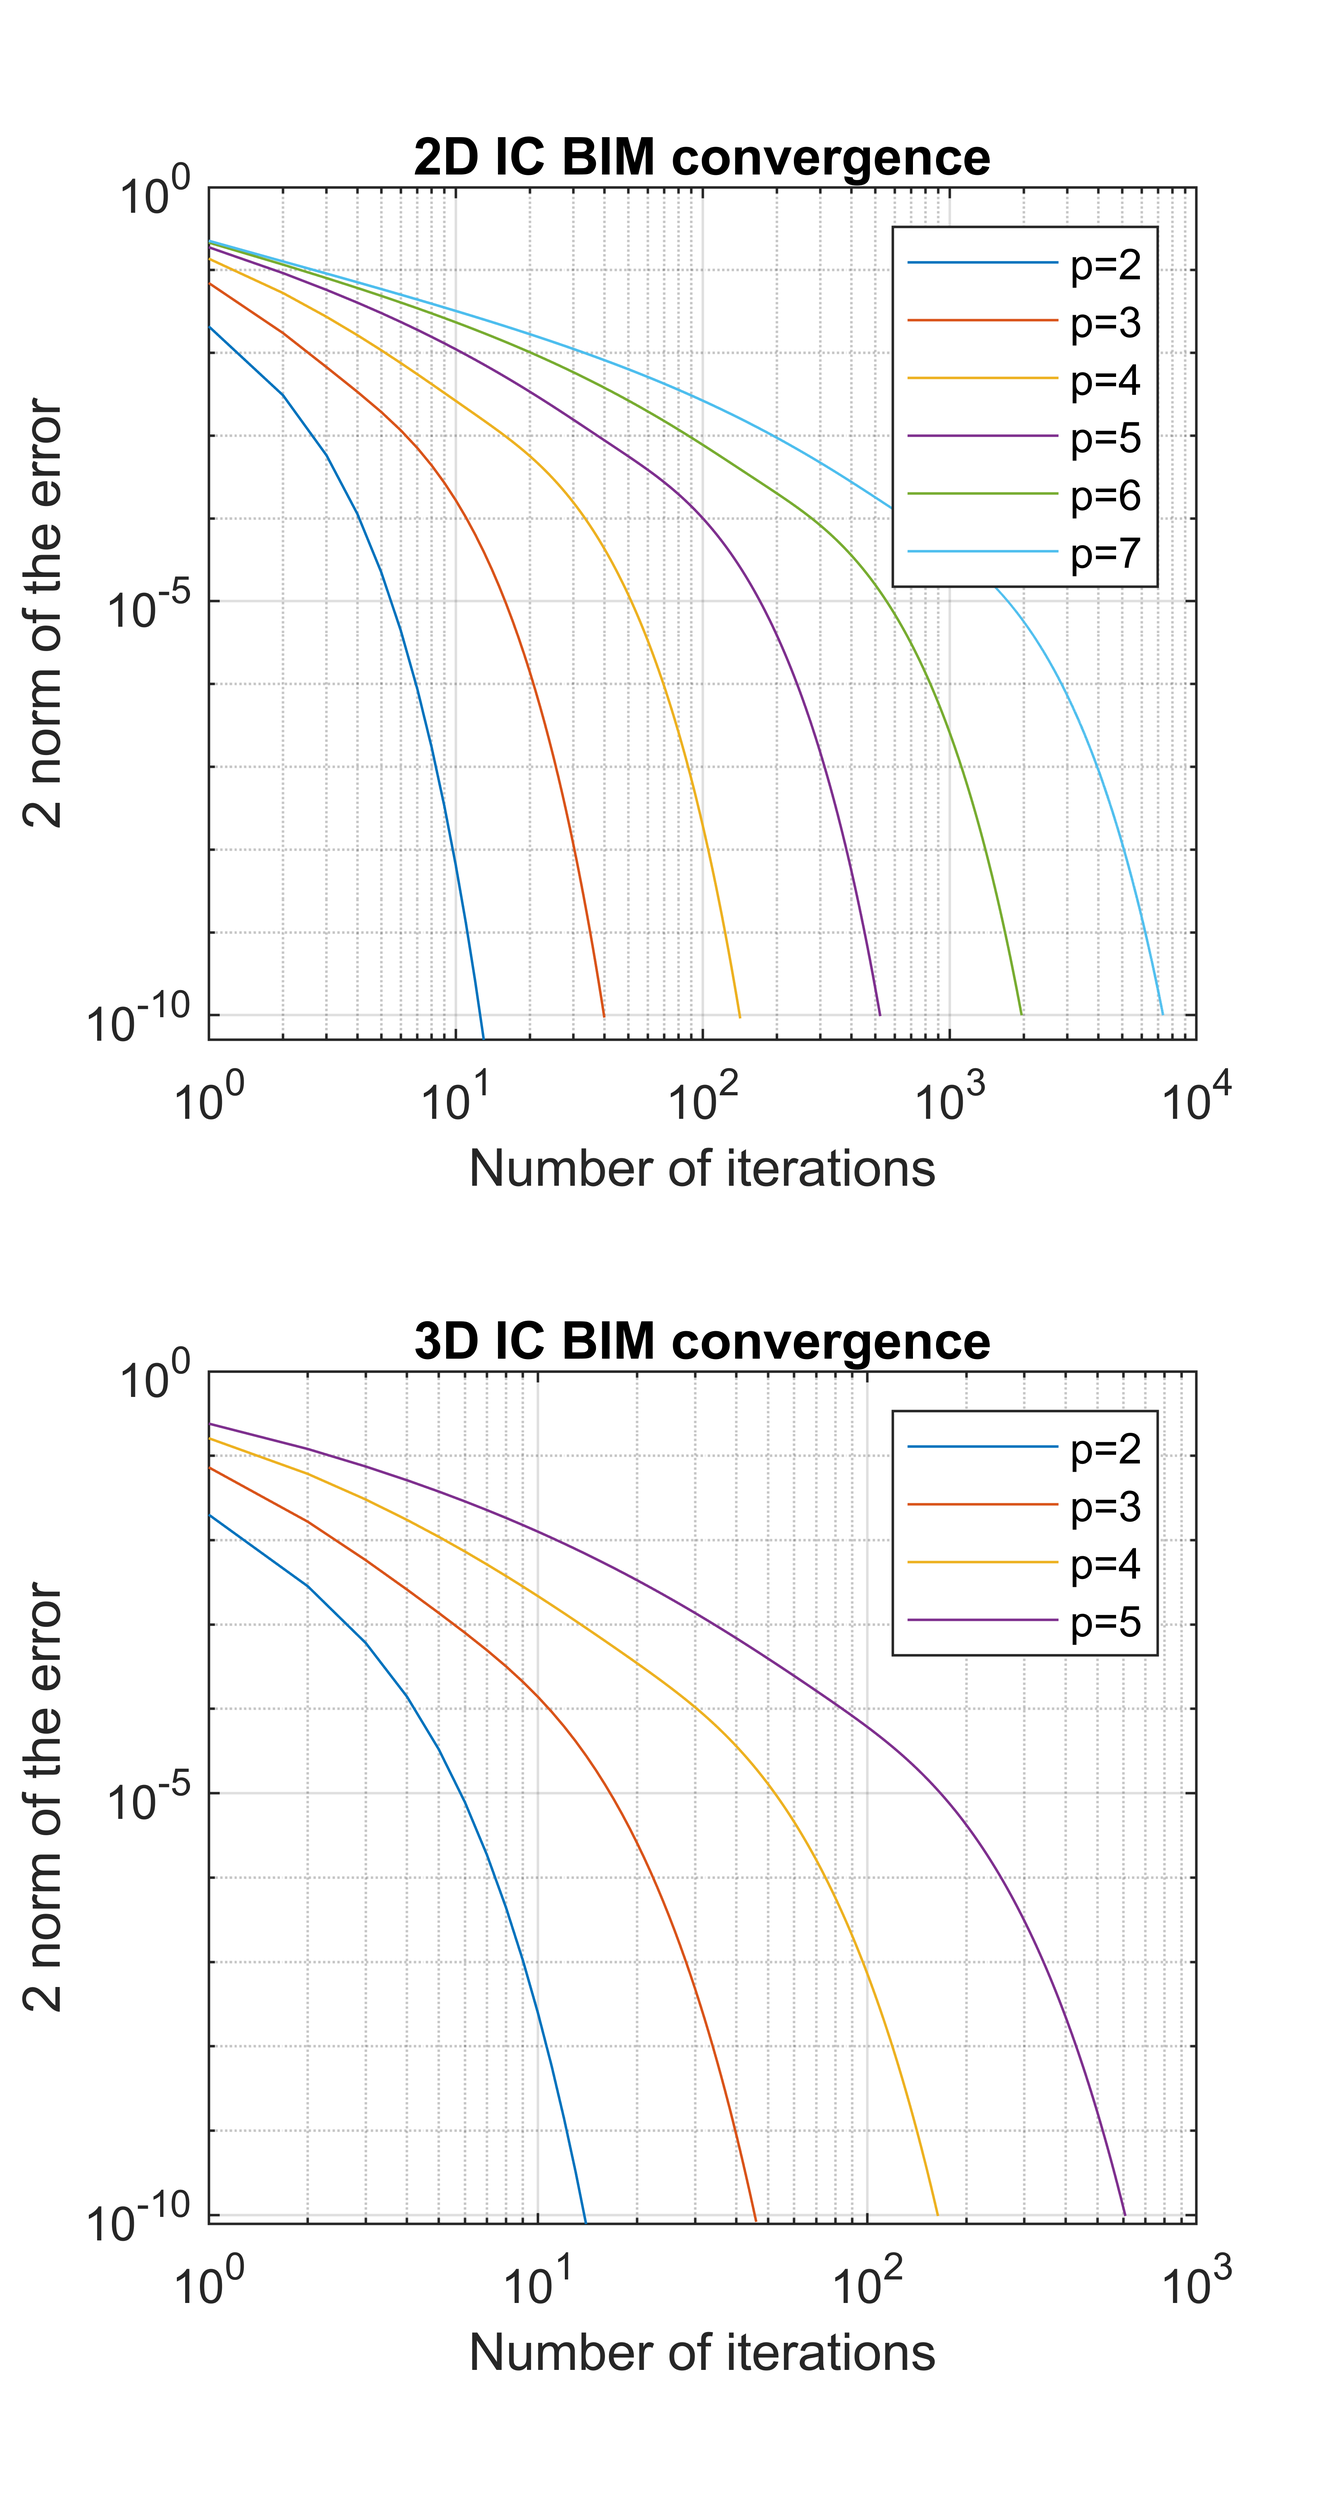
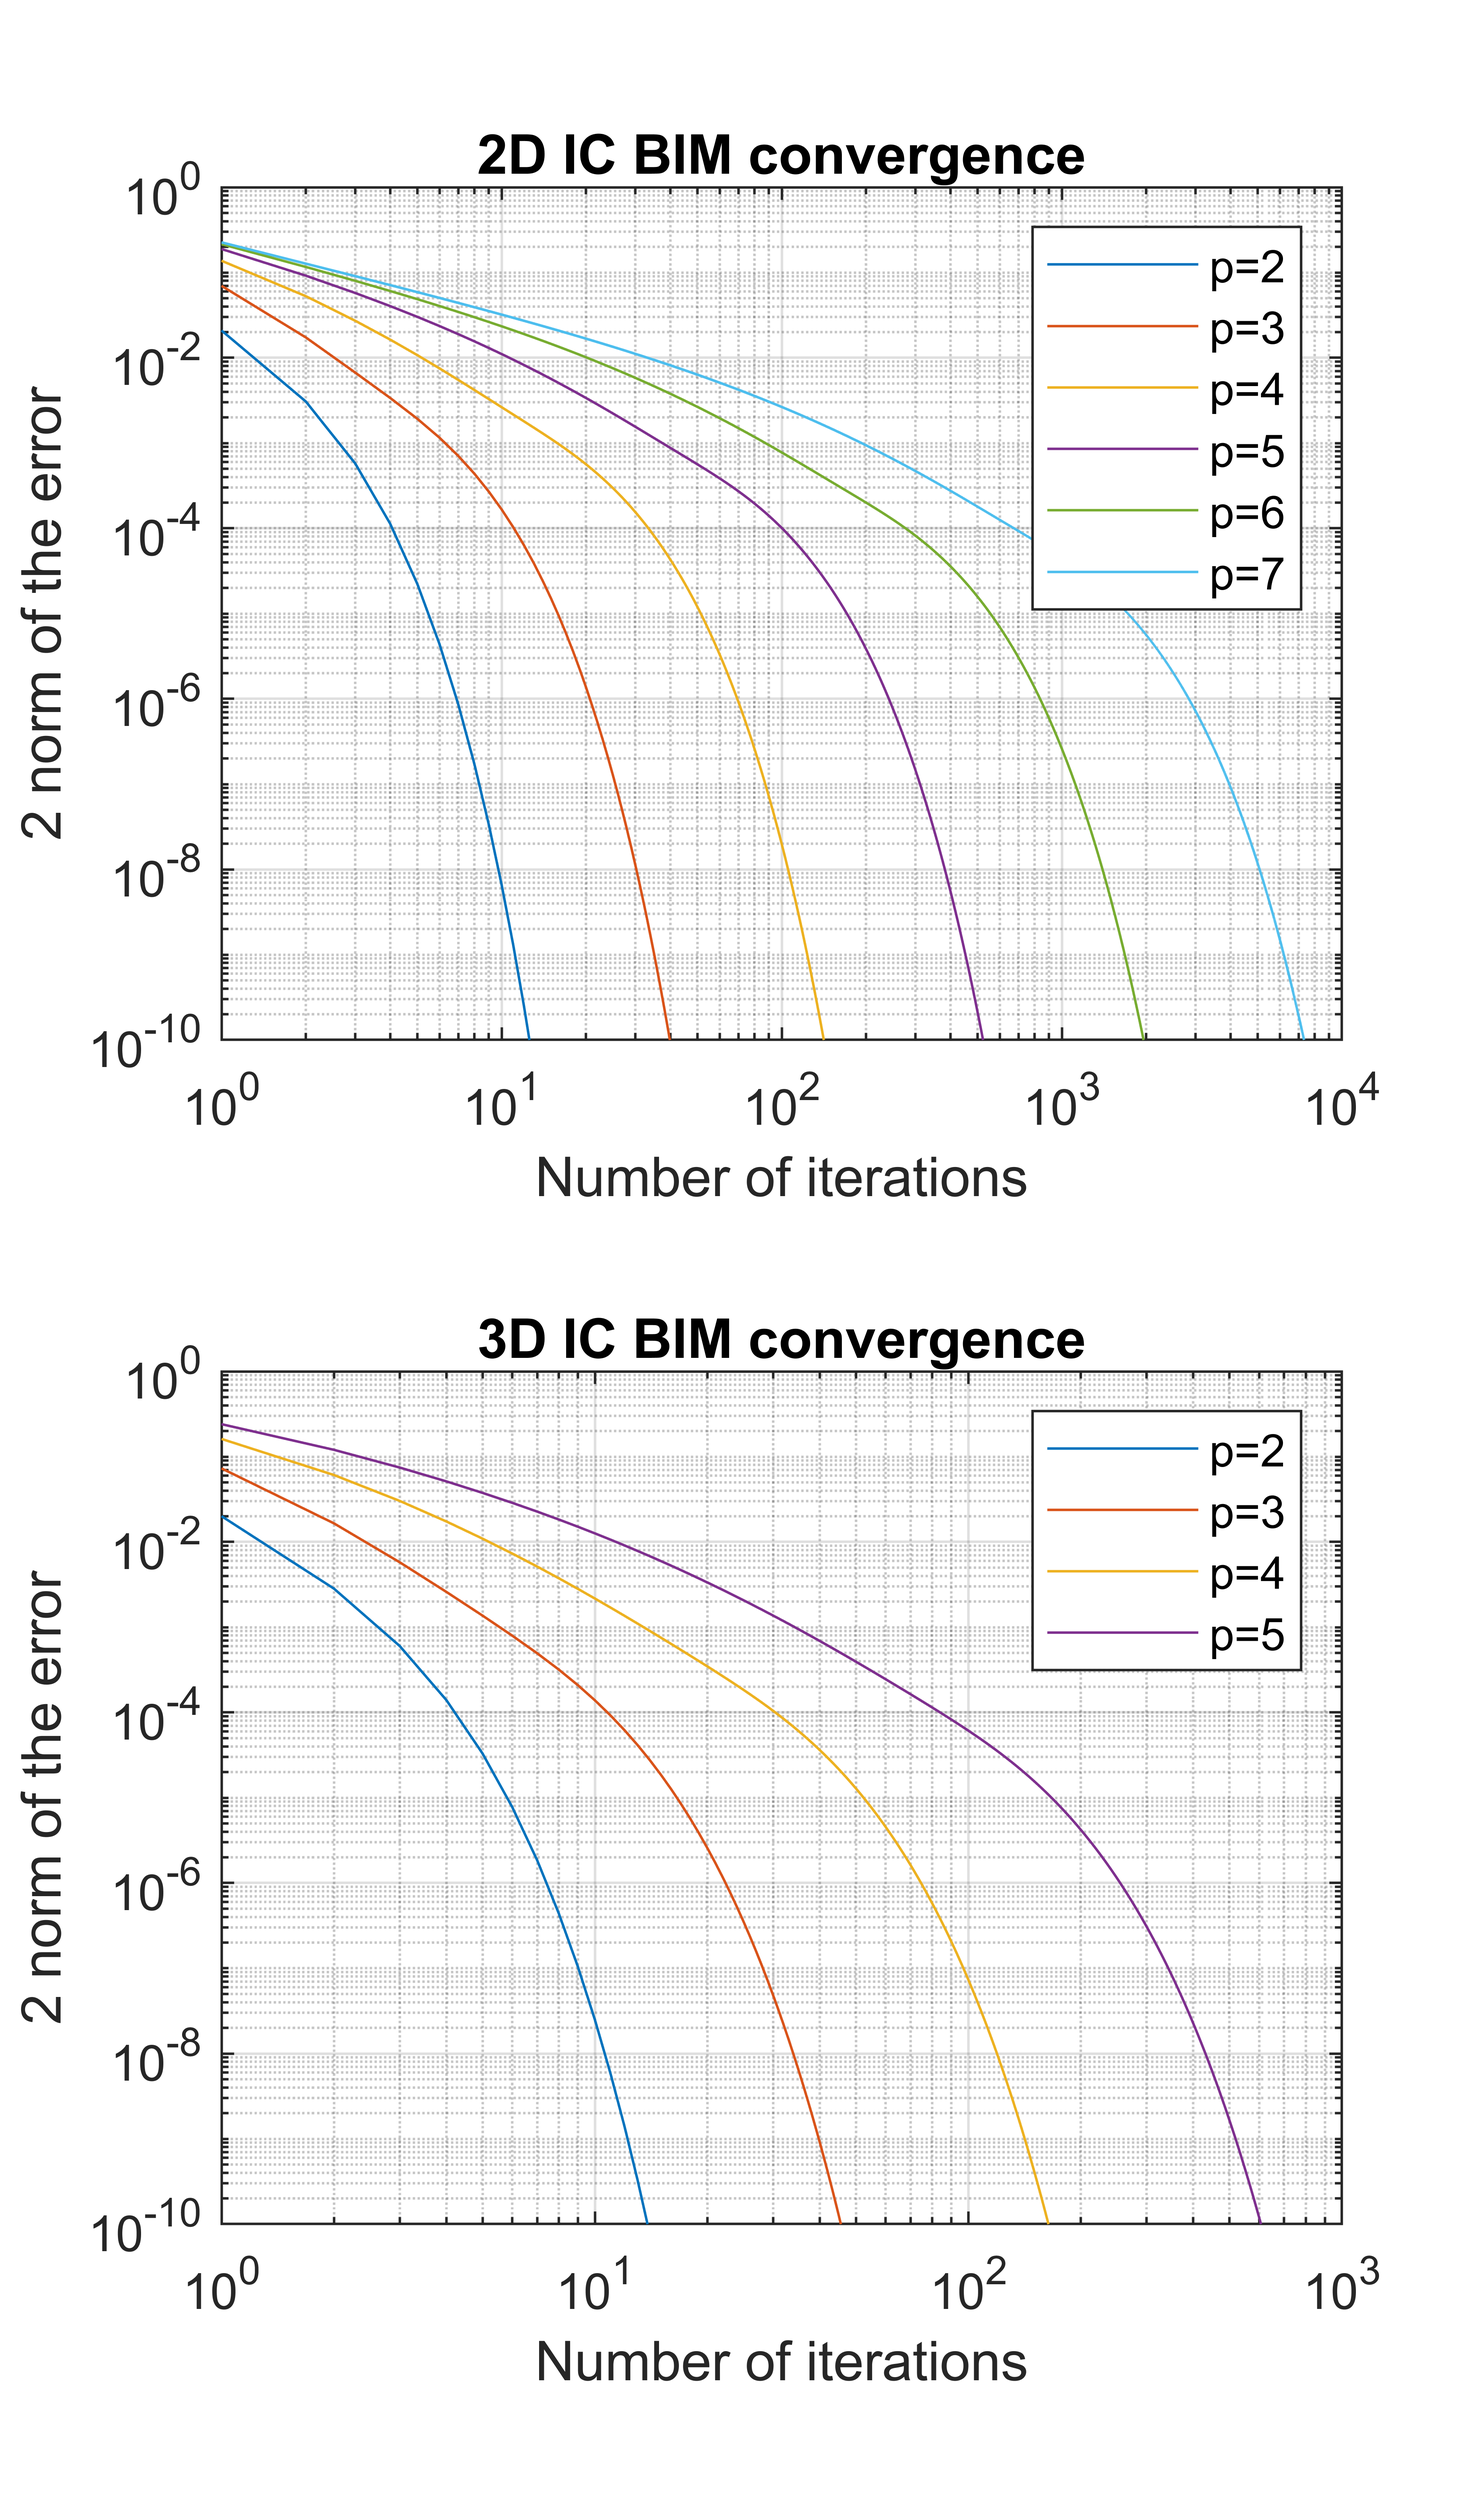
kevin Plotting Adventure

diff --git a/Main.m b/Main.m
@@ -224,6 +224,7 @@ if plot_figure
     figure(4)
     subplot(2,1,1)
     loglog(ICBIM_conv_2D');
+    ylim([1e-10 1])
     title("2D IC BIM convergence")
     grid on
     xlabel("Number of iterations");
@@ -231,6 +232,7 @@ if plot_figure
     legend(compose('p=%u',D2pList))
     subplot(2,1,2)
     loglog(ICBIM_conv_3D');
+    ylim([1e-10 1])
     title("3D IC BIM convergence")
     grid on
     xlabel("Number of iterations");
@@ -241,6 +243,7 @@ if plot_figure
     figure(5)
     subplot(2,1,1)
     loglog(ICCG_conv_2D');
+    ylim([1e-10 1])
     title("2D ICCG convergence")
     grid on
     xlabel("Number of iterations");
@@ -248,6 +251,7 @@ if plot_figure
     legend(compose('p=%u',D2pList))
     subplot(2,1,2)
     loglog(ICCG_conv_3D');
+    ylim([1e-10 1])
     title("3D ICCG convergence")
     grid on
     xlabel("Number of iterations");
@@ -279,6 +283,38 @@ if plot_figure
     ylabel("total time");
     legend("Direct","IC BIM","ICCG",'location','northwest')
     
+    
+    %% Last 5 iterations convergence ratio
+    figure(7)
+    % 2D
+    subplot(2,1,1)
+    for i = 1:numel(D2pList)
+        I2D = find(ICBIM_conv_2D(i,:) > 0);
+        Iend = I2D(end);
+        plot([-5 -4 -3 -2 -1 0],ICBIM_conv_2D(i,Iend-5:Iend)./(ICBIM_conv_2D(i,Iend-6:Iend-1)),"-o");
+        hold on
+    end
+    hold off
+    legend(num2str(D2pList'))
+    grid on
+    title("2D last 5 iterations ratio of convergence")
+    xlabel("iteration n from last iteration")
+    ylabel("ratio $\frac{||\mathbf{r}_n||_2}{||\mathbf{r}_{n-1}||_2}$",'interpreter','latex')
+    
+    % 3D
+    subplot(2,1,2)
+    for i = 1:numel(D3pList)
+        I3D = find(ICBIM_conv_3D(i,:) > 0);
+        Iend = I3D(end);
+        plot(ICBIM_conv_3D(i,Iend-5:Iend)./(ICBIM_conv_3D(i,Iend-6:Iend-1)),"-o");
+        hold on
+    end
+    hold off
+    legend(num2str(D3pList'))
+    grid on
+    title("3D last 5 iterations ratio of convergence")
+    xlabel("iteration n from last iteration")
+    ylabel("ratio $\frac{||\mathbf{r}_n||_2}{||\mathbf{r}_{n-1}||_2}$",'interpreter','latex')
     
     set(0,'DefaultFigureWindowStyle','normal')
 end

diff --git a/ParameterFile.m b/ParameterFile.m
@@ -1,18 +1,18 @@
-D2pList = 2:7;          % do not go above 7 for MATLAB implementation or 5 for user implementation
-D3pList = 2:5;          % do not go above 5 for MATLAB implementation or 3 for user implementation
+D2pList = 2:5;          % do not go above 7 for MATLAB implementation or 5 for user implementation
+D3pList = 2:3;          % do not go above 5 for MATLAB implementation or 3 for user implementation
 
 epsilon = 1e-10;        % convergence criteria IC BIM
 
-use_MATLAB  = true;     % when true use matlab own implementation for code speed up
+use_MATLAB  = false;     % when true use matlab own implementation for code speed up
 plot_figure = true;     % plot figures
 use_symrcm  = true;     % use matrix reordering
 
 
 M = 1e4;                % max number of iterations to plot convergence for preallocation of memory
 
-do_DIRECT   = false;     % execute direct solvers
+do_DIRECT   = true;     % execute direct solvers
 do_IC_BIM   = true;     % execute IC BIM solvers
-do_ICCG     = false;     % execute ICCG solvers
+do_ICCG     = true;     % execute ICCG solvers
 
 %% some setup stuff
 D2nList = 2.^D2pList;
